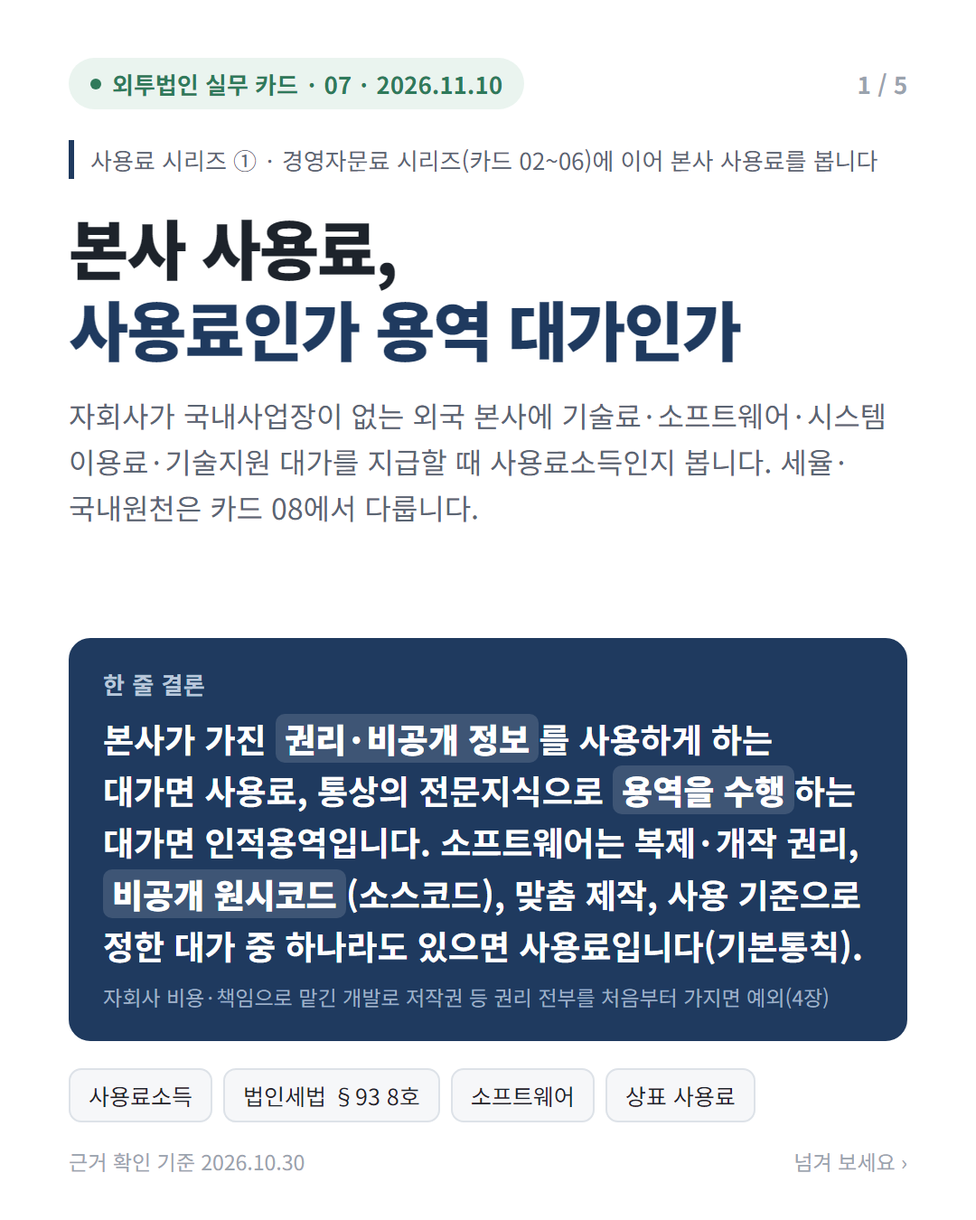
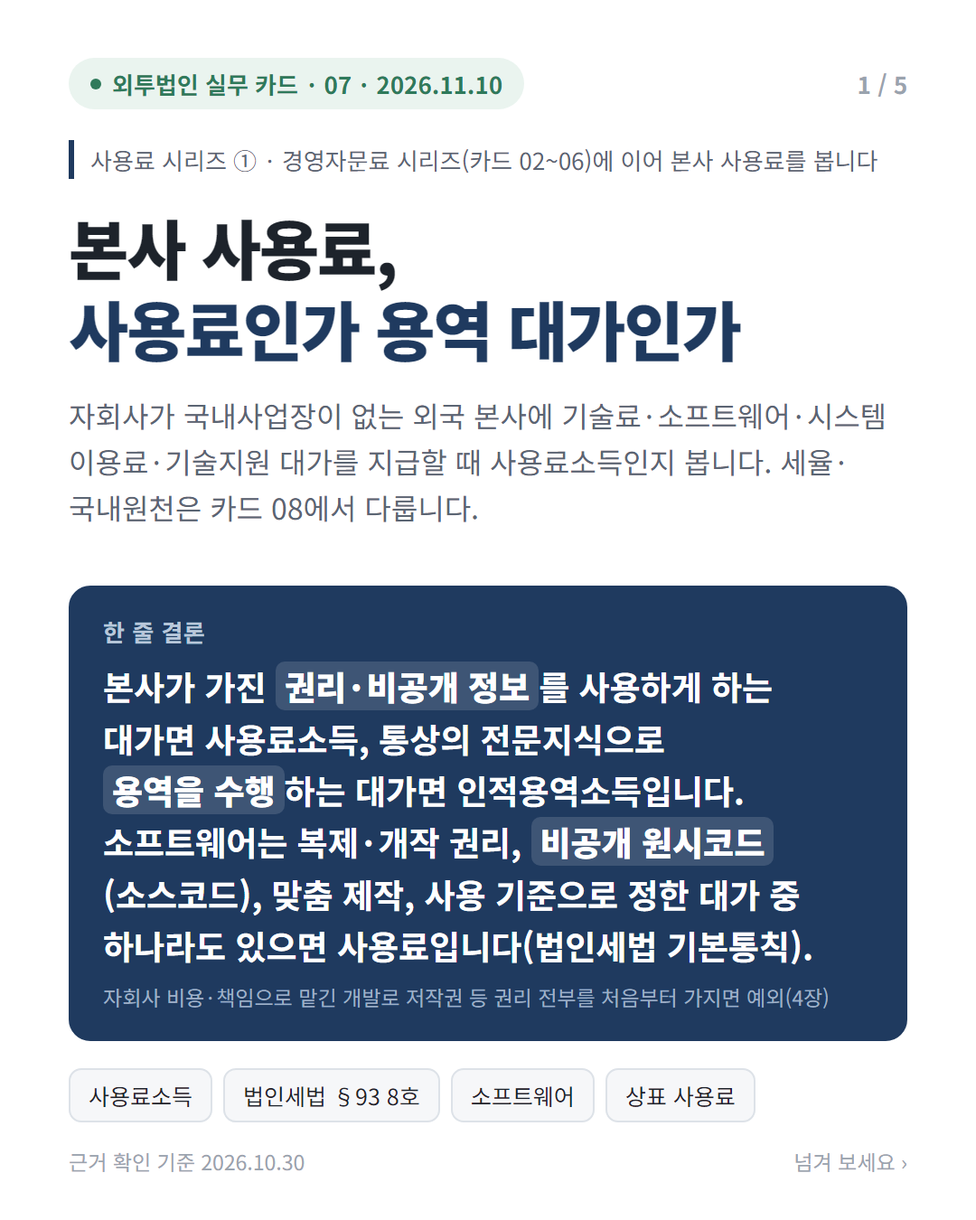
게시본 02·04~08·호외 01 용어 표기 통일(용어집 첫 판) · 점검에 개념 정리 상자 분량 따로 세기
- 표기 교체만: 인적용역→인적용역소득, 안에→이내, 과세관청→과세당국, 원천세→원천징수세액, 제한세율·지방소득세 포함 표기 등. 결론·숫자·근거 번호는 그대로
- 바뀐 장 27장만 그림이 바뀜(나머지 장 그림 그대로)
- build.py: <!--개념정리--> 구간을 합계 상한에서 빼고 200자 한도로 셈

Changed region(s): [[0.0611, 0.4667, 0.9472, 0.8089]]

diff --git a/원본/h01/카드.html b/원본/h01/카드.html
@@ -171,11 +171,11 @@
   <div class="top"><span class="badge extra">외투법인 실무 카드 · 호외 01 · 2026.10.27</span><span class="page">1 / 5</span></div>
   <p class="prev"><b>호외</b> · 장우주 님의 질의에서 시작된 이번 호, 실무 처리 기준을 정리했습니다</p>
   <h1>일본 법인 강사의 강의료,<br><em>원천징수 여부</em></h1>
-  <p class="sub">한국에 지점·사무소가 없는 일본 법인의 강사가 며칠간 강의하고, 한국 회사가 강의료를 그 법인에 지급하는 경우입니다.</p>
-  <p class="ref">이 카드가 다루지 않는 것: 대학 등 교육기관 강의(조약 제21조) · 사업자등록을 한 일본 법인 · 여러 해에 걸친 반복 초청 · 교재·프로그램 사용권 대가</p>
+  <p class="sub">국내사업장이 없는 일본 법인의 강사가 며칠간 강의하고, 한국 회사가 강의료를 그 법인에 지급하는 경우입니다.</p>
+  <p class="ref">이 카드가 다루지 않는 것: 대학 등 교육기관 강의(한일 조약 제21조) · 사업자등록을 한 일본 법인 · 여러 해에 걸친 반복 초청 · 교재·프로그램 사용권 대가</p>
   <div class="card navy answer">
     <div class="label">한 줄 결론</div>
-    <p class="big">강의료에는 <b>법인세 20%</b>와 지방소득세 2%를 원천징수합니다. 다만 일본 법인이 강의에 정기적으로 사용할 수 있는 고정시설(사무실 등)이 한국에 없고, 강사의 그해 한국 체류일이 합계 183일 미만이면 조세조약으로 면제됩니다. 지급 전에 <b class="nb">비과세·면제신청서</b>와 일본 법인의 거주자증명서를 받으면 원천징수 없이 지급합니다.</p>
+    <p class="big">강의료에는 <b>법인세 20%</b>와 지방소득세 2%를 원천징수합니다. 다만 일본 법인이 강의에 정기적으로 이용 가능한 고정시설(사무실 등)이 한국에 없고, 강사의 그해 한국 체류일이 합계 183일 미만이면 조세조약으로 면제됩니다. 지급 전에 <b class="nb">비과세·면제신청서</b>와 일본 법인의 거주자증명서를 받으면 원천징수 없이 지급합니다.</p>
   </div>
   <div class="chips">
     <span class="chip">강의료·강사료</span><span class="chip">한일 조세조약 제14조</span><span class="chip">비과세·면제신청서</span><span class="chip">183일</span>
@@ -192,13 +192,13 @@
     <div class="card navy">
       <div class="label">국내법 · 인적용역소득</div>
       <b class="t">법인세 20%</b>
-      <p>전문지식을 가진 사람이 한국에서 그 지식을 활용해 제공하는 용역의 대가입니다. 강사가 국내에서 직접 하는 강의가 여기에 해당합니다. 지방소득세는 법인세의 10%(20% × 10% = 2%)입니다. 조약상 면제가 아니면 이 세율로 원천징수합니다.</p>
+      <p>전문지식을 가진 사람이 한국에서 그 지식을 활용해 제공하는 용역에서 생기는 소득입니다. 강사가 국내에서 직접 하는 강의가 여기에 해당합니다. 지방소득세는 법인세의 10%(20% × 10% = 2%)입니다. 조약상 면제가 아니면 이 세율로 원천징수합니다.</p>
       <p class="ref">법인세법 §93 6호 · §98①4호 · 시행령 §132⑥4호 · <span class="nb">서이46017-12150</span></p>
     </div>
     <div class="card soft">
-      <div class="label">한일 조세조약 제14조</div>
+      <div class="label">한일 조약 제14조</div>
       <b class="t">둘 다 아니면 면제</b>
-      <p>① 일본 법인이 강의에 정기적으로 사용할 수 있는 고정시설(사무실 등)이 한국에 있음<br>② 강사의 그해(1월 1일~12월 31일) 체류일이 합계 183일 이상</p>
+      <p>① 일본 법인이 강의에 정기적으로 이용 가능한 고정시설(사무실 등)이 한국에 있음<br>② 강사의 그해(1.1.~12.31.) 체류일이 합계 183일 이상</p>
       <p>하나라도 해당하면 한국이 과세합니다.</p>
       <p class="ref">조약 제14조① · <span class="nb">국업46014-137</span></p>
     </div>
@@ -221,12 +221,12 @@
   <div class="rows">
     <div class="r head"><span>상황</span><span>처리</span></div>
     <div class="r"><div class="q">고정시설 없음 · 그해 체류일 183일 미만 · 지급 전에 신청서와 거주자증명서를 받음</div><div class="a no">원천징수 없음</div></div>
-    <div class="r"><div class="q">고정시설 없음 · 그해 체류일 183일 미만 · 서류를 갖추지 못함<small>원천징수해 납부합니다. 면제 요건을 갖췄다면 회사나 일본 법인이 원천징수한 달의 다음 달 11일부터 5년 안에 경정청구(납부한 세액의 환급 청구)를 할 수 있습니다.</small></div><div class="a yes"><span class="nb">법인세 20% +</span> <span class="nb">지방소득세 2%</span></div></div>
+    <div class="r"><div class="q">고정시설 없음 · 그해 체류일 183일 미만 · 서류를 갖추지 못함<small>원천징수해 납부합니다. 면제 요건을 갖췄다면 회사나 일본 법인이 원천징수한 달의 다음 달 11일부터 5년 이내에 경정청구(납부한 세액의 환급 청구)를 할 수 있습니다.</small></div><div class="a yes"><span class="nb">법인세 20% +</span> <span class="nb">지방소득세 2%</span></div></div>
     <div class="r"><div class="q">고정시설이 있거나, 그해 체류일이 합계 183일 이상<small>신청서를 받았는지와 관계없이 과세합니다.</small></div><div class="a yes"><span class="nb">법인세 20% +</span> <span class="nb">지방소득세 2%</span></div></div>
     <div class="r"><div class="q">계약·지급 상대가 강사 개인<small>조약 판단이 달라져 이 카드대로 처리할 수 없습니다.</small></div><div class="a">지급 전 세무 검토</div></div>
     <div class="r"><div class="q">강사가 일본 법인에서 받는 급여<small>한국 회사가 지급하는 소득이 아닙니다.</small></div><div class="a no"><span class="nb">한국 회사는</span> <span class="nb">원천징수 없음</span></div></div>
   </div>
-  <div class="stop"><b>같은 해에 다시 초청할 때</b> 그해 체류일이 합계 183일 이상이 되면, 앞서 원천징수 없이 지급한 강의료도 과세되어 회사에 그 세액과 납부지연가산세가 추징될 수 있습니다. 재초청 전에 일본 법인에 강사의 그해 체류일 합계를 확인합니다. <span class="ref"><span class="nb">조약 제14조①</span> · 법인세법 §98의4④·§98④</span></div>
+  <div class="stop"><b>같은 해에 다시 초청할 때</b> 그해 체류일이 합계 183일 이상이 되면, 앞서 원천징수 없이 지급한 강의료도 과세되어 회사에 그 세액과 원천징수 등 납부지연가산세가 추징될 수 있습니다. 재초청 전에 일본 법인에 강사의 그해 체류일 합계를 확인합니다. <span class="ref"><span class="nb">조약 제14조①</span> · 법인세법 §98의4④·§98④</span></div>
   <footer><span>근거: 법인세법 §98의4 · 조약 제15조② · 소득세법 §156①</span><span>›</span></footer>
 </section>
 
@@ -235,10 +235,10 @@
   <div class="top"><span class="badge extra">외투법인 실무 카드 · 호외 01 · 2026.10.27</span><span class="page">4 / 5</span></div>
   <h2><span class="no">3</span>지급 전후 할 일</h2>
   <ul class="checks">
-    <li><span><b>지급 전</b> · 일본 법인에 강사의 그해 체류일 합계를 묻고, 강의에 정기적으로 사용할 수 있는 고정시설이 한국에 있는지 확인합니다. 183일 미만이고 고정시설이 없으면 비과세·면제신청서와 그 법인의 일본 거주자증명서를 받습니다.<small>조약 제14조① · 법인세법 §98의4① · 시행령 §138의4①</small></span></li>
-    <li><span><b>지급한 달의 다음 달 9일까지</b> · 신청서와 거주자증명서를 회사 관할 세무서에 제출합니다. 제출한 날부터 3년 안에는 같은 법인에게서 다시 받지 않아도 됩니다. 내용이 바뀌면 다시 받아 제출합니다.<small>법인세법 시행령 §138의4①②⑫</small></span></li>
-    <li><span><b>지급한 달의 다음 달 10일까지</b> · 원천징수했다면 원천징수이행상황신고서를 제출하고, 법인세는 세무서에, 지방소득세는 관할 시·군·구에 납부합니다. 다른 소득을 원천징수해 신고서를 제출하는 달에는 이 강의료도 함께 적습니다. 다만, 원천징수이행상황신고는 과세표준 신고가 아니어서 무신고가산세가 없고, 면제 요건을 갖춘 경우 납부할 세액이 0원이라 납부지연가산세도 없기 때문에 신고의 실익은 없습니다.<small>법인세법 §98① · 시행령 §137③ · 소득세법 시행령 §185 · 지방세법 §103의29④ · 국세기본법 §47의2① · §47의5① · 지방세기본법 §56①</small></span></li>
-    <li><span><b>다음 해 2월 말일까지</b> · 원천징수했다면 지급명세서를 제출합니다. 제출하지 않으면 지급액의 1%(기한 후 3개월 안에 제출하면 0.5%)가 가산세입니다. 신청서를 받은 강의료는 제출 대상이 아닙니다.<small>법인세법 §120의2① · §75의7① · 시행령 §162의2①6호</small></span></li>
+    <li><span><b>지급 전</b> · 일본 법인에 강사의 그해 체류일 합계를 묻고, 강의에 정기적으로 이용 가능한 고정시설이 한국에 있는지 확인합니다. 183일 미만이고 고정시설이 없으면 비과세·면제신청서와 그 법인의 일본 거주자증명서를 받습니다.<small>조약 제14조① · 법인세법 §98의4① · 시행령 §138의4①</small></span></li>
+    <li><span><b>지급한 달의 다음 달 9일까지</b> · 신청서와 거주자증명서를 회사 관할 세무서에 제출합니다. 제출한 날부터 3년 이내에는 같은 법인에게서 다시 받지 않아도 됩니다. 내용이 바뀌면 다시 받아 제출합니다.<small>법인세법 시행령 §138의4①②⑫</small></span></li>
+    <li><span><b>지급한 달의 다음 달 10일까지</b> · 원천징수했다면 원천징수이행상황신고서를 제출하고, 법인세는 세무서에, 지방소득세는 지방자치단체에 납부합니다. 다른 소득을 원천징수해 신고서를 제출하는 달에는 이 강의료도 함께 적습니다. 다만, 원천징수이행상황신고는 과세표준 신고가 아니어서 무신고가산세가 없고, 면제 요건을 갖춘 경우 납부할 세액이 0원이라 원천징수 등 납부지연가산세도 없기 때문에 신고의 실익은 없습니다.<small>법인세법 §98① · 시행령 §137③ · 소득세법 시행령 §185 · 지방세법 §103의29④ · 국세기본법 §47의2① · §47의5① · 지방세기본법 §56①</small></span></li>
+    <li><span><b>다음 해 2월 말일까지</b> · 원천징수했다면 지급명세서를 제출합니다. 제출하지 않으면 지급액의 1%(기한 후 3개월 이내에 제출하면 0.5%)가 가산세입니다. 신청서를 받은 강의료는 제출 대상이 아닙니다.<small>법인세법 §120의2① · §75의7① · 시행령 §162의2①6호</small></span></li>
   </ul>
   <footer><span>근거: 법인세법 §98의4·§120의2 · 시행령 §137·§138의4·§162의2</span><span>›</span></footer>
 </section>
@@ -252,8 +252,8 @@
     <div class="good">강사가 국내에서 직접 하는 강의는 인적용역소득(법인세 20%)입니다. 사업소득(법인세 2%)은 기계설비 수입 대금에 포함된 설치·감독 용역 등입니다.<small>법인세법 §93 · <span class="nb">기본통칙 93-132…9</span></small></div>
   </div>
   <div class="fix">
-    <div class="bad">소액(예: 200만원)이라 서류 없이 지급</div>
-    <div class="good">금액과 관계없이 신청서가 없으면 법인세 40만원(200만원 × 20%)과 지방소득세 4만원(40만원 × 10%)을 원천징수합니다.<small>법인세법 §98의4③ · 지방세법 §103의52①</small></div>
+    <div class="bad">소액(예: 200만 원)이라 서류 없이 지급</div>
+    <div class="good">금액과 관계없이 신청서가 없으면 법인세 40만 원(200만 원 × 20%)과 지방소득세 4만 원(40만 원 × 10%)을 원천징수합니다.<small>법인세법 §98의4③ · 지방세법 §103의52①</small></div>
   </div>
   <div class="fix last">
     <div class="bad">항공료·숙박비까지 강의료에 포함해 원천징수</div>

diff --git a/원본/08/카드.html b/원본/08/카드.html
@@ -182,7 +182,7 @@
   <p class="sub">한국 자회사가 국내사업장이 없는 외국 본사에 상표·특허·노하우·소프트웨어 사용료를 지급하는 경우입니다. 특허권 양도 대가는 다루지 않습니다.</p>
   <div class="card navy answer">
     <div class="label">한 줄 결론</div>
-    <p class="big">한국 자회사가 지급하는 사용료는 <b class="nb">국내원천</b>으로 보는 것이 원칙입니다. 본사의 <b class="nb">제한세율 적용신청서</b>를 받으면 조약 세율로, 받지 못하면 <b class="nb">20%</b>에 지방소득세를 더해 원천징수합니다.</p>
+    <p class="big">한국 자회사가 지급하는 사용료는 <b class="nb">국내원천</b>으로 보는 것이 원칙입니다. 본사의 <b class="nb">제한세율 적용신청서</b>를 받으면 제한세율로, 받지 못하면 <b class="nb">20%</b>에 지방소득세를 더해 원천징수합니다.</p>
   </div>
   <div class="chips">
     <span class="chip">사용료 원천징수</span><span class="chip">법인세법 §93 8호</span><span class="chip">제한세율 적용신청서</span><span class="chip">한일 조약 제12조</span><span class="chip">한미 조약</span><span class="chip">국내 미등록 특허</span><span class="chip">수익적 소유자</span>
@@ -194,7 +194,7 @@
 <section class="slide" id="s2">
   <div class="top"><span class="badge">외투법인 실무 카드 · 08 · 2026.11.13</span><span class="page">2 / 5</span></div>
   <h2><span class="no">1</span>국내원천인가</h2>
-  <p class="lead">법인세법은 권리 등을 <b>국내에서 사용하거나 그 대가를 국내에서 지급하면</b> 국내원천 사용료로 봅니다. 조약이 원천지를 따로 정하면 조약 기준을 따릅니다.<span class="ref nb"> §93 8호</span></p>
+  <p class="lead">법인세법은 권리 등을 <b>국내에서 사용하거나 그 대가를 국내에서 지급하면</b> 국내원천 사용료소득으로 봅니다. 조약이 원천지를 따로 정하면 조약 기준을 따릅니다.<span class="ref nb"> §93 8호</span></p>
   <div class="two">
     <div class="card navy">
       <div class="label">지급인 거주지 기준</div>
@@ -205,14 +205,14 @@
     <div class="card soft">
       <div class="label">사용지 기준</div>
       <b class="t">미국</b>
-      <p>국내에서 사용한 권리의 대가만 국내원천입니다. 국내에 등록하지 않은 특허도 그 기술을 국내 제조 등에 실제로 사용했으면 국내원천입니다(2020년 이후 지급분은 현행 규정, 그 전은 옛 규정·2025년 판례).</p>
+      <p>국내에서 사용한 권리의 대가만 국내원천입니다. 국내에 등록하지 않은 특허도 그 기술을 국내 제조 등에 실제로 사용했으면 국내원천입니다(2020년 이후 지급분은 현행 규정, 그 전은 옛 조문·2025년 판례).</p>
       <p class="ref">§93 8호 다목 · 한미 조약 제6조③ · 대법원 2021두59908 전원합의체(옛 조문 사안)</p>
     </div>
   </div>
   <div class="card soft split">
     <div class="label">판단이 갈린 적 있음<span class="tag-split">국내 미등록 특허</span></div>
     <p>대법원은 2025년 전원합의체에서 판례를 바꿨습니다(대법관 3명 반대). 국내·국외 사용분을 어떻게 나누고 누가 증명하는지는 정리되지 않았으며, 외국법인 쪽이 증명해야 한다고 본 심판례가 있습니다. 사용 장소별 자료를 남깁니다. 지급인 거주지 기준 조약에는 이 쟁점이 생기지 않습니다.</p>
-    <small>대법원 2021두59908(다수의견은 증명 책임을 판단하지 않음 · 다수 보충의견은 납세자, 반대의견 보충의견은 과세관청 쪽) · 조심2025중2984</small>
+    <small>대법원 2021두59908(다수의견은 증명 책임을 판단하지 않음 · 다수 보충의견은 납세자, 반대의견 보충의견은 과세당국 쪽) · 조심2025중2984</small>
   </div>
   <footer><span>근거: 법인세법 §93 8호 · 각 조약 제12조</span><span>›</span></footer>
 </section>
@@ -231,7 +231,7 @@
     <div class="r"><div class="q">싱가포르<small>2020.1.1. 이후 지급분</small></div><div class="v">5%</div><div class="v">포함</div><div class="v total"><span class="nb">261만 2,500</span></div></div>
     <div class="r"><div class="q">신청서를 받지 못함</div><div class="v">20%</div><div class="v">별도</div><div class="v total"><span class="nb">1,149만 5천</span><small><span class="nb">1,045만</span> + <span class="nb">104만 5천</span></small></div></div>
   </div>
-  <footer><span>근거: 각 조약 제2·12조(미국 제1·14조) · 한싱(2019) §27② · <span class="nb">법령해석과-1763</span></span><span>›</span></footer>
+  <footer><span>근거: 각 조약 제2·12조(미국 제1·14조) · 한싱 조약(2019) 제27조② · <span class="nb">법령해석과-1763</span></span><span>›</span></footer>
 </section>
 
 <!-- 4. 신청서와 납부 -->
@@ -239,14 +239,14 @@
   <div class="top"><span class="badge">외투법인 실무 카드 · 08 · 2026.11.13</span><span class="page">4 / 5</span></div>
   <h2><span class="no">3</span>신청서와 납부</h2>
   <div class="flow">
-    <div class="step key"><div class="n">지급 전</div><h3>제한세율 적용신청서 받기</h3><p>본사는 지급받기 전까지 신청서와 그 소득의 실질귀속자(그 소득을 실질적으로 보유한 자)임을 증명하는 서류를 자회사에 제출해야 합니다. 서류로 실질귀속자를 알 수 없거나 자회사의 보완 요구에 따르지 않으면 20%입니다. 제출한 날부터 3년 안에는 다시 받지 않아도 되나, 내용이 바뀌면 그 뒤 첫 지급 전까지 다시 받습니다.</p></div>
+    <div class="step key"><div class="n">지급 전</div><h3>제한세율 적용신청서 받기</h3><p>본사는 지급받기 전까지 신청서와 그 소득의 실질귀속자(그 소득을 실질적으로 보유한 자)임을 증명하는 서류를 자회사에 제출해야 합니다. 서류로 실질귀속자를 알 수 없거나 자회사의 보완 요구에 따르지 않으면 20%입니다. 제출한 날부터 3년 이내에는 다시 받지 않아도 되나, 내용이 바뀌면 그 뒤 첫 지급 전까지 다시 받습니다.</p></div>
     <div class="arr">↓</div>
     <div class="step"><div class="n">지급할 때</div><h3>원천징수·납부</h3><p>다음 달 10일까지 법인세는 세무서에, 지방소득세는 지방자치단체에 납부합니다. 외화 환산은 카드 05를 따릅니다.</p></div>
     <div class="arr">↓</div>
     <div class="step"><div class="n">다음 해</div><h3>신청서 보관·제출</h3><p>신청서는 원천징수세액 납부기한 다음 날부터 5년간 보관하고, 2026.1.1. 이후 신청분은 지급한 다음 해 2월 말일까지 관할 세무서에 제출합니다(2026년 지급분은 2027.3.2.(화), 카드 06).</p></div>
   </div>
-  <div class="stop"><b>신청서 없이 제한세율을 적용하면</b> 자회사가 과소 원천징수한 법인세와 지방소득세를 징수당할 수 있습니다. 이 회사라면 법인세 570만 원(1,045만 − 475만)과 지방소득세 57만 원(104만 5천 − 47만 5천)에 원천징수 등 납부지연가산세(국세기본법 §47의5)와 특별징수 납부지연가산세(지방세기본법 §56)가 더해집니다. 신청서 없이 20%였다면 카드 02·호외 01에서 본 대로 본사·자회사가 5년 안에 경정청구할 수 있습니다. <span class="ref">§98④ · §98의6③⑤ · 지방세법 §103의52②</span></div>
-  <footer><span>근거: §93의2① · §98의6 · 시행령 §138의7 · 부칙(제21217호) §13</span><span>›</span></footer>
+  <div class="stop"><b>신청서 없이 제한세율을 적용하면</b> 자회사가 과소 원천징수한 법인세와 지방소득세를 징수당할 수 있습니다. 이 회사라면 법인세 570만 원(1,045만 − 475만)과 지방소득세 57만 원(104만 5천 − 47만 5천)에 원천징수 등 납부지연가산세(국세기본법 §47의5)와 특별징수 납부지연가산세(지방세기본법 §56)가 더해집니다. 신청서 없이 20%였다면 카드 02·호외 01에서 본 대로 본사·자회사가 5년 이내에 경정청구할 수 있습니다. <span class="ref">§98④ · §98의6③⑤ · 지방세법 §103의52②</span></div>
+  <footer><span>근거: §93의2① · §98의6 · 시행령 §138의7 · 법률 제21217호 부칙 §13</span><span>›</span></footer>
 </section>
 
 <!-- 5. 흔한 실수 -->
@@ -263,7 +263,7 @@
   </div>
   <div class="fix last">
     <div class="bad">본사는 받은 사용료를 다른 나라 계열사에 그대로 넘기는 도관(거쳐 가기만 하는 회사)인데 한일 조약 10% 적용</div>
-    <div class="good">한일 조약 10%는 수익적 소유자(다시 넘길 의무 없이 사용하는 자)가 일본 거주자일 때만 적용됩니다. 신청서를 받을 때 실제 소유자를 확인합니다<small>한일 조약 제12조② · §98의6① · 대법원 2017두33008</small></div>
+    <div class="good">한일 조약 10%는 수익적 소유자(다시 넘길 의무 없이 사용하는 자)가 일본 거주자일 때만 적용됩니다. 신청서를 받을 때 수익적 소유자를 확인합니다<small>한일 조약 제12조② · §98의6① · 대법원 2017두33008</small></div>
   </div>
   <div class="basis">
     <div class="label">근거</div>

diff --git a/원본/02/카드.html b/원본/02/카드.html
@@ -172,7 +172,7 @@
   <p class="sub">한국 자회사가 국내사업장이 없는 외국 본사에 경영자문료를 지급하는 경우입니다. 조세조약은 일본 본사를 예로 듭니다.</p>
   <div class="card navy answer">
     <div class="label">한 줄 결론</div>
-    <p class="big">먼저 <b>무엇을 넘겨받았는지</b>로 소득을 구분합니다. 경영 노하우·경험 정보면 <b>사용료</b>로 원천징수하고, 자문 용역(인적용역)이면 <b>수행 장소</b>와 <b>조약 요건</b>으로 원천징수 여부를 정합니다.</p>
+    <p class="big">먼저 <b>무엇을 넘겨받았는지</b>로 소득을 구분합니다. 경영 노하우·경험 정보면 <b>사용료</b>로 원천징수하고, 자문 용역(인적용역소득)이면 <b>수행 장소</b>와 <b>조약 요건</b>으로 원천징수 여부를 정합니다.</p>
   </div>
   <div class="chips">
     <span class="chip">경영자문료</span><span class="chip">사용료·인적용역 구분</span><span class="chip">법인세법 §93 6호·8호</span><span class="chip">한일 조세조약 제12조·제14조</span><span class="chip">제한세율 적용신청서</span><span class="chip">비과세·면제신청서</span><span class="chip">183일</span>
@@ -187,13 +187,13 @@
   <p class="lead">같은 「경영자문료」라도 내용에 따라 소득과 원천징수 여부가 갈립니다.</p>
   <div class="two">
     <div class="card navy">
-      <div class="label">사용료</div>
+      <div class="label">사용료소득</div>
       <b class="t">경험 정보·노하우</b>
-      <p>본사가 이미 축적한 경영상 지식·경험에 관한 정보를 넘겨받는 대가입니다. <b>수행 장소와 관계없이</b> 원천징수합니다. 한일 조약상 상한은 <b>지방소득세를 포함해 10%</b>이고, 본사에서 <b>제한세율 적용신청서</b>를 받아야 적용합니다(받지 못하면 20%).</p>
-      <p class="ref">법인세법 §93 8호 나목 · §98의6 · 한일 조약 제2조·제12조 · <span class="nb">국제세원관리담당관실-375(2012.8.22.)</span></p>
+      <p>본사가 이미 축적한 경영상 지식·경험에 관한 정보를 넘겨받는 대가입니다. <b>수행 장소와 관계없이</b> 원천징수합니다. 한일 조약 제한세율은 <b>10%(지방소득세 포함)</b>이고, 본사에서 <b>제한세율 적용신청서</b>를 받아야 적용합니다(받지 못하면 20%).</p>
+      <p class="ref">법인세법 §93 8호 나목 · §98의6 · 한일 조약 제2·12조 · <span class="nb">국제세원관리담당관실-375(2012.8.22.)</span></p>
     </div>
     <div class="card soft">
-      <div class="label">인적용역</div>
+      <div class="label">인적용역소득</div>
       <b class="t">전문지식 활용 용역</b>
       <p>같은 종류의 용역수행자가 통상 보유하는 전문지식·기능으로 수행하는 자문 용역입니다. 국내에서 제공한 부분만 국내원천소득입니다.</p>
       <p class="ref">법인세법 §93 6호 · 시행령 §132⑥4호</p>
@@ -202,11 +202,11 @@
   <div class="card bottom" style="padding:24px 32px">
     <div class="label">가를 때 보는 요소</div>
     <ul class="ul">
-      <li>노하우를 비밀로 보호하거나 제3자 공개를 막는 특별한 장치가 있다(통상의 쌍방 비밀유지 조항은 제외) → <b class="nb">사용료 쪽</b></li>
-      <li>대가가 본사가 그 용역에 실제로 들인 비용(인건비 등)에 보통 수준의 이윤을 붙인 금액보다 훨씬 크다 → <b class="nb">사용료 쪽</b></li>
-      <li>본사가 용역의 이행과 결과를 보증한다 → <b class="nb">인적용역 쪽</b></li>
+      <li>노하우를 비밀로 보호하거나 제3자 공개를 막는 특별한 장치가 있다(통상의 쌍방 비밀유지 조항은 제외) → <b class="nb">사용료소득 쪽</b></li>
+      <li>대가가 본사가 그 용역에 실제로 들인 비용(인건비 등)에 보통 수준의 이윤을 붙인 금액보다 훨씬 크다 → <b class="nb">사용료소득 쪽</b></li>
+      <li>본사가 용역의 이행과 결과를 보증한다 → <b class="nb">인적용역소득 쪽</b></li>
     </ul>
-    <p class="ref">법인세법 기본통칙 93-132…7③ · 대법원 2015두950 · 일본법인 컨설팅에 같은 구분 기준을 제시한 회신 <span class="nb">국제세원관리담당관실-447(2010.10.13.)</span></p>
+    <p class="ref">법인세법 기본통칙 93-132…7③ · 대법원 2015두950 · 일본 법인 컨설팅에 같은 구분 기준을 제시한 회신 <span class="nb">국제세원관리담당관실-447(2010.10.13.)</span></p>
   </div>
   <footer><span>근거: 법인세법 §93 · 기본통칙 93-132…7</span><span>›</span></footer>
 </section>
@@ -222,7 +222,7 @@
     <div class="arr">↓</div>
     <div class="step"><div class="n">3단계</div><h3>조약 요건</h3><p>한국에 정기적으로 이용 가능한 <b>고정시설</b>이 있거나 그해(1.1.~12.31.) 본사 직원의 국내 체류가 <b>183일 이상</b>이면 과세, 아니면 과세하지 않습니다(한일 조약 제14조① · 국세청 회신 기준)</p></div>
     <div class="arr">↓</div>
-    <div class="step key"><div class="n">4단계</div><h3>신청서 또는 원천징수</h3><p>조약상 면제여도 <b>2026.1.1. 이후 발생분</b>은 <b>지급 전에</b> 비과세·면제신청서와 거주자증명서를 받아 두고 지급한 달의 다음 달 9일까지 세무서에 제출합니다. 받지 못했거나 과세되면 <b>20%</b>와 지방소득세(그 세액의 10%)를 원천징수해 다음 달 10일까지 납부합니다(한일 조약은 인적용역 세율 상한을 두지 않아 국내법 세율을 그대로 적용).</p></div>
+    <div class="step key"><div class="n">4단계</div><h3>신청서 또는 원천징수</h3><p>조약상 면제여도 <b>2026.1.1. 이후 발생분</b>은 <b>지급 전에</b> 비과세·면제신청서와 거주자증명서를 받아 두고 지급한 달의 다음 달 9일까지 세무서에 제출합니다. 받지 못했거나 과세되면 <b>20%</b>와 지방소득세(그 세액의 10%)를 원천징수해 다음 달 10일까지 납부합니다(한일 조약은 인적용역소득에 제한세율을 두지 않아 국내법 세율을 그대로 적용).</p></div>
   </div>
   <footer><span>근거: 법인세법 §98① · §98의4 · §98의6 · 시행령 §138의4 · 지방세법 §103의52 · <span class="nb">서면-2026-국제세원-2130</span> · <span class="nb">서이46017-12150</span> · <span class="nb">국업46014-137</span></span><span>›</span></footer>
 </section>
@@ -235,7 +235,7 @@
     <li><span>조약 문언은 「총 183일 또는 이를 초과하는 기간」이므로 <b>183일이면</b> 과세 요건에 해당합니다. 과세 범위는 그 체류 기간에 국내에서 얻은 소득입니다.<small>서로 관련된 별개 계약은 하나로 보고 기간을 셉니다 · <span class="nb">서이46017-12150</span></small></span></li>
     <li><span>자회사가 항공회사·숙박업자·음식업자에게 실제 지급한 사실이 확인되는 <b>항공료·숙박비·식사대</b>는 원천징수 대상 금액에서 제외합니다(본사를 통해 지급한 경우 포함).<small>법인세법 §93 6호 후단 · 시행령 §132⑦ — 인적용역소득에만 적용</small></span></li>
     <li><span>국내·국외 수행이 섞이면 <b>국내 제공분만</b> 국내원천소득입니다. 계약에서 국내 방문분 대가를 구분해 둡니다.<small>법인 용역의 안분 기준을 정한 조문·해석은 확인되지 않아 개별 검토 · <span class="nb">서이46017-10099</span></small></span></li>
-    <li><span>본사가 일본이 아니면 그 나라 조약으로 다시 봅니다. 한미 조약은 법인의 자문 용역을 <b>사업소득</b>으로 보아 고정사업장 여부로 판단합니다.<small>한미 조약 제8조 · <span class="nb">서면-2016-국제세원-2908</span> · 국외 제공 용역을 국내 발생으로 보는 조약(예: 한·인도)이면 3%(§98①4호 단서)</small></span></li>
+    <li><span>본사가 일본이 아니면 그 나라 조약으로 다시 봅니다. 한미 조약은 법인의 자문 용역을 <b>사업소득</b>으로 보아 고정사업장 여부로 판단합니다.<small>한미 조약 제8조 · <span class="nb">서면-2016-국제세원-2908</span> · 국외 제공 용역을 국내 발생으로 보는 조약(예: 한인도 조약)이면 3%(§98①4호 단서)</small></span></li>
   </ul>
   <div class="card soft split">
     <div class="label">판단이 갈린 적 있음<span class="tag-split">매출액 비율 분담금</span></div>
@@ -255,7 +255,7 @@
   </div>
   <div class="fix">
     <div class="bad">조약상 면제라서 2026년 이후에도 서류 없이 지급</div>
-    <div class="good">신청서가 없으면 20%로 원천징수하고, 본사 또는 자회사가 5년 안에 경정청구할 수 있습니다<small>법인세법 §98의4③⑤ · 부칙 §10</small></div>
+    <div class="good">신청서가 없으면 20%로 원천징수하고, 본사 또는 자회사가 5년 이내에 경정청구할 수 있습니다<small>법인세법 §98의4③⑤ · 부칙 §10</small></div>
   </div>
   <div class="fix last">
     <div class="bad">과세되는 인적용역에 한일 조약 제한세율 10% 적용</div>

diff --git a/원본/07/카드.html b/원본/07/카드.html
@@ -182,7 +182,7 @@
   <p class="sub">자회사가 국내사업장이 없는 외국 본사에 기술료·소프트웨어·시스템 이용료·기술지원 대가를 지급할 때 사용료소득인지 봅니다. 세율·국내원천은 카드 08에서 다룹니다.</p>
   <div class="card navy answer">
     <div class="label">한 줄 결론</div>
-    <p class="big">본사가 가진 <b class="nb">권리·비공개 정보</b>를 사용하게 하는 대가면 사용료, 통상의 전문지식으로 <b class="nb">용역을 수행</b>하는 대가면 인적용역입니다. 소프트웨어는 복제·개작 권리, <b class="nb">비공개 원시코드</b>(소스코드), 맞춤 제작, 사용 기준으로 정한 대가 중 하나라도 있으면 사용료입니다(기본통칙).</p>
+    <p class="big">본사가 가진 <b class="nb">권리·비공개 정보</b>를 사용하게 하는 대가면 사용료소득, 통상의 전문지식으로 <b class="nb">용역을 수행</b>하는 대가면 인적용역소득입니다. 소프트웨어는 복제·개작 권리, <b class="nb">비공개 원시코드</b>(소스코드), 맞춤 제작, 사용 기준으로 정한 대가 중 하나라도 있으면 사용료입니다(법인세법 기본통칙).</p>
     <p class="ref">자회사 비용·책임으로 맡긴 개발로 저작권 등 권리 전부를 처음부터 가지면 예외(4장)</p>
   </div>
   <div class="chips">
@@ -199,12 +199,12 @@
     <div class="card navy">
       <div class="label">사용료</div>
       <b class="t">권리·노하우</b>
-      <p>저작권·특허권·상표권·도면 등의 사용 대가와 <span class="nb">산업상·상업상·과학상</span> 지식·경험에 관한 정보(노하우)의 대가입니다. 노하우는 제공 전에 이미 있는 비공개 기술정보입니다.</p>
+      <p>저작권·특허권·상표권·도면 등의 사용 대가와 <span class="nb">산업상·상업상·과학상</span> 지식·경험에 관한 정보 또는 노하우의 대가입니다. 노하우는 제공 전에 이미 있는 비공개 기술정보입니다.</p>
       <p class="ref">법인세법 §93 8호 가·나목 · 기본통칙 93-132…7①</p>
     </div>
     <div class="card soft">
       <div class="label">인적용역 · 사업소득</div>
-      <b class="t">용역 수행의 대가</b>
+      <b class="t">용역 대가</b>
       <p>동종 용역수행자가 통상 가진 <span class="nb">전문지식·기능으로</span> 하는 기술지원은 인적용역입니다. 설비에 필수로 따르는 설치·감독·애프터서비스 대가가 설비 가격에 포함되면 사업소득입니다.</p>
       <p class="ref">§93 5호·6호 · <span class="nb">기본통칙 93-132…7②</span> · <span class="nb">93-132…9</span></p>
     </div>
@@ -227,10 +227,10 @@
   <p class="lead">예: 카드 05의 한국 자회사가 일본 본사에 지급하는 다섯 가지 대가. 오른쪽은 <b>이 회사라면</b>, 작은 글씨는 <b>근거 회신·판결의 사안</b>입니다.</p>
   <div class="rows">
     <div class="head">이 회사가 지급하는 대가</div>
-    <div class="r"><div class="q">㉠ 상표 사용료(매출 연동)와 ㉡ 그 상표 사용계약에 따른 광고비<small>§93 8호 가목 · 사안: 프랑스 법인 상표 계약의 연합광고비(<span class="nb">국제세원관리담당관실-573</span>, 옛 조문 사안), 이탈리아 법인 상표 계약의 자회사 영업이익률 정산금(대법원 2026두30813)</small></div><div class="a yes">사용료<small>㉡은 회신에 따름</small></div></div>
-    <div class="r"><div class="q">㉢ 자회사에 맞게 개작한 생산관리 시스템의 사용권<small>기본통칙 93-132…8②2나 · 사안: 국내 항공사가 모리셔스 업체 시스템을 도입자 사정에 맞게 개발·수정해 들여온 사용권(저작권 사용 허락, §93 8호 가목 · <span class="nb">사전-2022-법규국조-1073</span>)</small></div><div class="a yes">사용료</div></div>
+    <div class="r"><div class="q">㉠ 상표 사용료(매출 연동)와 ㉡ 그 상표 사용계약에 따른 광고비<small>§93 8호 가목 · 사안: 프랑스 법인 상표 계약의 연합광고비(<span class="nb">국제세원관리담당관실-573</span>, 옛 조문 사안), 이탈리아 법인 상표 계약의 자회사 영업이익률 정산금(대법원 2026두30813)</small></div><div class="a yes">사용료소득<small>㉡은 회신에 따름</small></div></div>
+    <div class="r"><div class="q">㉢ 자회사에 맞게 개작한 생산관리 시스템의 사용권<small>기본통칙 93-132…8②2나 · 사안: 국내 항공사가 모리셔스 업체 시스템을 도입자 사정에 맞게 개발·수정해 들여온 사용권(저작권 사용 허락, §93 8호 가목 · <span class="nb">사전-2022-법규국조-1073</span>)</small></div><div class="a yes">사용료소득</div></div>
     <div class="r"><div class="q">㉣ 범용 상용 소프트웨어를 기술교육·개작 없이 구입(원시코드·사용 기준 과금 없음)<small>사안: 일본 업체(본사 아님)의 지도 소프트웨어를 수출 제품에 탑재한 옛 조문 사안 · <span class="nb">국제세원관리담당관실-69</span>(2010.2.5.)</small></div><div class="a calc">사업소득<small>2장</small></div></div>
-    <div class="r"><div class="q">㉤ 본사 엔지니어의 통상적인 기술지원<small>기본통칙 93-132…7② · 사안: 스웨덴 업체가 별도 계약으로 한 국내 설치 기술지원(<span class="nb">사전-2026-법규국조-0329</span>)</small></div><div class="a calc">인적용역<small>카드 02</small></div></div>
+    <div class="r"><div class="q">㉤ 본사 엔지니어의 통상적인 기술지원<small>기본통칙 93-132…7② · 사안: 스웨덴 업체가 별도 계약으로 한 국내 설치 기술지원(<span class="nb">사전-2026-법규국조-0329</span>)</small></div><div class="a calc">인적용역소득<small>카드 02</small></div></div>
   </div>
   <footer><span>회신·판결은 각 사안의 사실관계(나라·계약)에 따른 것입니다. 이 회사도 계약 내용을 확인합니다</span><span>›</span></footer>
 </section>

diff --git a/원본/06/카드.html b/원본/06/카드.html
@@ -182,7 +182,7 @@
   <p class="sub">한국 자회사가 국내사업장이 없는 외국 본사에 경영자문료를 지급했을 때 제출 여부와 기한을 봅니다. 국제거래명세서는 3막(연말 결산과 신고)에서 다룹니다.</p>
   <div class="card navy answer">
     <div class="label">한 줄 결론</div>
-    <p class="big">지급한 다음 해 <b class="nb">2월 말일</b>까지 제출합니다. 2026.1.1. 이후 발생분은 <b class="nb">원천징수를 하지 않았어도</b> 제출합니다. <b class="nb">비과세·면제신청서</b>를 세무서에 제출한 소득과 국외에서만 수행한 자문 용역(인적용역) 대가는 제외됩니다.</p>
+    <p class="big">지급한 다음 해 <b class="nb">2월 말일</b>까지 제출합니다. 2026.1.1. 이후 발생분은 <b class="nb">원천징수를 하지 않았어도</b> 제출합니다. <b class="nb">비과세·면제신청서</b>를 세무서에 제출한 소득과 국외에서만 수행한 자문 용역(인적용역소득) 대가는 제외됩니다.</p>
   </div>
   <div class="chips">
     <span class="chip">법인세법 §120의2</span><span class="chip">비과세·면제신청서</span><span class="chip">인적용역소득</span>
@@ -217,7 +217,7 @@
   </ul>
   <div class="card soft" style="padding:24px 30px; margin-top:14px">
     <div class="label">신청서로 면제된 소득</div>
-    <p class="note" style="margin-top:10px">호외 01에서 본 것처럼 다른 소득을 원천징수해 신고서를 제출하는 달에는 함께 적지만, 무신고가산세·납부지연가산세가 없어 신고의 실익은 없습니다.</p>
+    <p class="note" style="margin-top:10px">호외 01에서 본 것처럼 다른 소득을 원천징수해 신고서를 제출하는 달에는 함께 적지만, 무신고가산세·원천징수 등 납부지연가산세가 없어 신고의 실익은 없습니다.</p>
     <div class="ref">소득세법 시행령 §185②&nbsp;· 국세기본법 §47의2①</div>
   </div>
   <footer style="margin-top:auto"><span></span><span>›</span></footer>
@@ -246,12 +246,12 @@
   <div class="top"><span class="badge">외투법인 실무 카드 · 06 · 2026.11.06</span><span class="page">5 / 6</span></div>
   <h2><span class="no">4</span>가산세와 꼭 확인할 것</h2>
   <div class="rows">
-    <div class="head">지급명세서 가산세 · 법인세법 §75의7</div>
+    <div class="head">지급명세서 등 제출 불성실 가산세 · 법인세법 §75의7</div>
     <div class="r"><div class="q">기한까지 제출하지 않음</div><div class="a calc">지급금액의 1%</div></div>
     <div class="r"><div class="q">기한이 지난 후 3개월 이내에 제출</div><div class="a calc">지급금액의 0.5%</div></div>
     <div class="r"><div class="q">불분명하거나 지급금액이 사실과 다름</div><div class="a calc">그 금액의 1%</div></div>
   </div>
-  <p class="note">예) 4장 사용료 1억 450만 원을 제출하지 않으면 1억 450만 원 × 1% = 104만 5천 원, 3개월 안에 제출하면 × 0.5% = 52만 2,500원입니다. 산출세액이 없어도 부과되며, 의무위반 종류별로 5천만 원(중소기업이 아니면 1억 원) 한도가 있습니다(고의 위반은 한도 없음).<span class="ref nb"> §75의7⑥&nbsp;· 국세기본법 §49①</span></p>
+  <p class="note">예) 4장 사용료 1억 450만 원을 제출하지 않으면 1억 450만 원 × 1% = 104만 5천 원, 3개월 이내에 제출하면 × 0.5% = 52만 2,500원입니다. 산출세액이 없어도 부과되며, 의무위반 종류별로 5천만 원(중소기업이 아니면 1억 원) 한도가 있습니다(고의 위반은 한도 없음).<span class="ref nb"> §75의7⑥&nbsp;· 국세기본법 §49①</span></p>
   <ul class="checks">
     <li><span>신청서 없이 원천징수하지 않고 지급명세서까지 제출하지 않으면, 나중에 면제 대상으로 확인되어도 지급명세서 가산세를 부과한 해석·결정이 있습니다.<small>해석·결정(주식·특허권 양도, 축구 이적료, 옛 조문)&nbsp;· 조심2017중3535&nbsp;· <span class="nb">국제세원관리담당관실-63</span>(2013.3.4.)&nbsp;· <span class="nb">법규과-953</span>(2014.8.29.)</small></span></li>
   </ul>
@@ -264,7 +264,7 @@
   <h2><span class="no">5</span>흔한 실수</h2>
   <div class="fix">
     <div class="bad">조약상 면제라서 원천징수하지 않았으니 지급명세서도 제출하지 않음</div>
-    <div class="good">2026.1.1. 이후 발생분은 신청서를 제출한 소득만 제외되고, 없으면 원천징수하고 제출합니다. 강의료 등 다른 인적용역도 같습니다(호외 01)<small>§98의4③&nbsp;· 시행령 §162의2①6호&nbsp;· 조심2017중3535(주식 양도)</small></div>
+    <div class="good">2026.1.1. 이후 발생분은 신청서를 제출한 소득만 제외되고, 없으면 원천징수하고 제출합니다. 강의료 등 다른 인적용역소득도 같습니다(호외 01)<small>§98의4③&nbsp;· 시행령 §162의2①6호&nbsp;· 조심2017중3535(주식 양도)</small></div>
   </div>
   <div class="fix">
     <div class="bad">2025년까지처럼 원천징수되지 않는 인적용역소득은 제출하지 않음</div>

diff --git a/원본/05/카드.html b/원본/05/카드.html
@@ -214,7 +214,7 @@
 <section class="slide" id="s3">
   <div class="top"><span class="badge">외투법인 실무 카드 · 05 · 2026.11.03</span><span class="page">3 / 6</span></div>
   <h2><span class="no">2</span>원천징수세액과 송금액</h2>
-  <p class="lead">일본 본사가 경영 노하우 대가 <b>1,100만 엔</b>을 청구한 예입니다(카드 02의 사용료, 신청서를 받아 <span class="nb">한일 조약 10%·지방소득세 포함).</span></p>
+  <p class="lead">일본 본사가 경영 노하우 대가 <b>1,100만 엔</b>을 청구한 예입니다(카드 02의 사용료, 신청서를 받아 <span class="nb">한일 조약 10%(지방소득세 포함)).</span></p>
   <div class="rows calc4">
     <div class="head">가정 환율 100엔 = 950원 · 1,100만 엔 × 9.5원 = 1억 450만 원</div>
     <div class="r th" style="padding-top:4px;padding-bottom:4px"><div>경우</div><div>원천징수세액</div><div>본사 송금액</div><div>과세표준 <span class="nb">(원천세 신고)</span></div></div>
@@ -225,7 +225,7 @@
   <div class="ref" style="margin-top:10px"><span class="nb">기본통칙 98-0…2 ·</span> <span class="nb">법인세법 §98의7①2호 ·</span> <span class="nb">지방세법 §103의52① ·</span> <span class="nb">국고금 관리법 §47②</span></div>
   <div class="card soft bottom" style="padding:14px 30px">
     <div class="label">부가세 대리납부도 하면</div>
-    <p>자회사가 이 용역을 면세사업에 사용하거나 매입세액 불공제 대상이면 <b>부가세도 대리납부</b>합니다(카드 03). 이때 원천세와 부가세가 서로의 과세표준에 들어가는지는 다음 장에서 봅니다.</p>
+    <p>자회사가 이 용역을 면세사업에 사용하거나 매입세액 불공제 대상이면 <b>부가세도 대리납부</b>합니다(카드 03). 이때 원천징수세액과 부가세가 서로의 과세표준에 들어가는지는 다음 장에서 봅니다.</p>
   </div>
   <footer><span></span><span>›</span></footer>
 </section>
@@ -234,9 +234,9 @@
 <section class="slide" id="s4">
   <div class="top"><span class="badge">외투법인 실무 카드 · 05 · 2026.11.03</span><span class="page">4 / 6</span></div>
   <h2><span class="no">3</span>부가세 대리납부도 할 때</h2>
-  <p class="lead">원천세와 부가세가 <b>서로의 과세표준에 들어가는지</b>는 셋으로 나뉩니다.</p>
+  <p class="lead">원천징수세액과 부가세가 <b>서로의 과세표준에 들어가는지</b>는 셋으로 나뉩니다.</p>
   <div class="rows">
-    <div class="r"><div class="q"><b>원천세 → 부가세 과세표준</b><br>자회사가 부담한 원천징수세액은 용역 대가에 포함되어 대리납부 과세표준에 들어갑니다. 판결은 원천징수 대상분 세액만 과세표준에 넣었습니다.<small><span class="nb">부가22601-1135(1988.7.4.) ·</span> <span class="nb">2017누406(2002~2003년분, 상고 기각) ·</span> <span class="nb">2025누8147(상고 중)</span></small></div><div class="a calc">더합니다</div></div>
+    <div class="r"><div class="q"><b>원천징수세액 → 부가세 과세표준</b><br>자회사가 부담한 원천징수세액은 용역 대가에 포함되어 대리납부 과세표준에 들어갑니다. 판결은 원천징수 대상분 세액만 과세표준에 넣었습니다.<small><span class="nb">부가22601-1135(1988.7.4.) ·</span> <span class="nb">2017누406(2002~2003년분, 상고 기각) ·</span> <span class="nb">2025누8147(상고 중)</span></small></div><div class="a calc">더합니다</div></div>
     <div class="r"><div class="q"><b>부가세 → 원천징수 과세표준</b><br>대리납부한 부가세를 원천징수 과세표준에서 차감하지 않은 회신이 있습니다(<span class="nb">사용료를 수입금액 비율로 정하고</span> <span class="nb">부가세 약정이 없던</span> <span class="nb">면세사업자 사안).</span><small>법령해석과-2720</small></div><div class="a calc">차감하지 않습니다</div></div>
     <div class="r"><div class="q"><b>자회사가 부담한 부가세 → 원천징수 과세표준</b><br>자회사가 부담한 부가세(대리납부세액)를 원천징수 과세표준에 더하는지는 아직 해석이 없습니다.</div><div class="a"><span class="tag-split" style="margin-left:0">정리 전</span></div></div>
   </div>

diff --git a/원본/04/카드.html b/원본/04/카드.html
@@ -169,7 +169,7 @@
   <div class="top"><span class="badge">외투법인 실무 카드 · 04 · 2026.10.30</span><span class="page">1 / 5</span></div>
   <p class="prev">경영자문료 시리즈 ③ · 카드 03 <b>부가세 대리납부 여부</b>에 이어 법인세에서 비용으로 인정받는 요건을 봅니다</p>
   <h1>본사 경영자문료,<br><em>손금 인정 요건과 정상가격</em></h1>
-  <p class="sub">한국 자회사가 외국 본사(국외특수관계인)에 경영자문료·경영지원료를 지급하고 비용으로 처리하는 경우입니다. 국제조세조정법의 용역거래 규정으로 판단합니다.</p>
+  <p class="sub">한국 자회사가 외국 본사(국외특수관계인)에 경영자문료·경영지원료를 지급하고 비용으로 처리하는 경우입니다. 국조법의 용역거래 규정으로 판단합니다.</p>
   <div class="card navy answer">
     <div class="label">한 줄 결론</div>
     <p class="big">현행 시행령은 <b>사전 약정</b> · <b>편익</b> · <b>중복 아님</b> · <b class="nb">증빙 보관</b> 중 하나라도 갖추지 않으면 손금에 산입하지 않는다고 정합니다. 요건을 갖춰도 대가가 정상가격을 넘으면 정상가격을 기준으로 과세조정합니다.</p>
@@ -194,7 +194,7 @@
   <div class="card soft bottom" style="padding:22px 30px">
     <div class="label">대가 수준은 따로 봅니다</div>
     <p>자회사는 정상가격을 기준으로 조정해 신고할 수 있고(거래가격 조정신고서), 과세당국은 정상가격을 기준으로 결정·경정할 수 있습니다.<span class="ref nb"> 국조법 §6·§7①</span></p>
-    <p>이 용역 대가에는 법인세법 §52 부당행위계산부인을 적용하지 않습니다. 다만 자산 증여 등에는 적용합니다.<span class="ref nb"> 국조법 §4②</span></p>
+    <p>이 용역 대가에는 법인세법 §52 부당행위계산의 부인을 적용하지 않습니다. 다만 자산 증여 등에는 적용합니다.<span class="ref nb"> 국조법 §4②</span></p>
   </div>
   <footer><span>국조법 = 국제조세조정에 관한 법률</span><span>›</span></footer>
 </section>
@@ -258,7 +258,7 @@
   </div>
   <div class="fix last">
     <div class="bad">정상가격 초과분을 손금불산입만 하고 끝냄</div>
-    <div class="good">반환 확인 전까지 임시유보로 두고, 신고일(경정이면 임시유보 처분 통지서를 받은 날)부터 90일 안에 본사가 반환이자를 더해 돌려준 사실이 반환 확인서로 확인되지 않으면 배당으로 처분되어 원천징수합니다<small>국조법 §13① · 시행령 §22~§24</small></div>
+    <div class="good">반환 확인 전까지 임시유보로 두고, 신고일(경정이면 임시유보 처분 통지서를 받은 날)부터 90일 이내에 본사가 반환이자를 더해 돌려준 사실이 이전소득금액 반환 확인서로 확인되지 않으면 배당으로 처분되어 원천징수합니다<small>국조법 §13① · 시행령 §22~§24</small></div>
   </div>
   <div class="basis">
     <div class="label">근거</div>

diff --git a/index.html b/index.html
@@ -4,7 +4,7 @@
 <meta name="robots" content="noindex,nofollow">
 <title>외투법인 실무 카드</title>
 <meta property="og:type" content="website"><meta property="og:title" content="외투법인 실무 카드">
-<meta property="og:description" content="외투법인 실무에서 판단이 필요한 장면을 매주 화·금 한 장씩, 근거와 함께 정리합니다."><meta property="og:image" content="https://mkang4936.github.io/work-cards/c/04/1.png"><meta property="og:url" content="https://mkang4936.github.io/work-cards/">
+<meta property="og:description" content="외투법인 실무에서 판단이 필요한 장면을 매주 화·금 한 장씩, 근거와 함께 정리합니다."><meta property="og:image" content="https://mkang4936.github.io/work-cards/c/05/1.png"><meta property="og:url" content="https://mkang4936.github.io/work-cards/">
 <style>
 :root{--navy:#1f3a5f;--navy-soft:#e9eef5;--ink:#1d232b;--gray:#5b6573;--line:#dde2e8;--bg-soft:#f6f7f9;--ok:#2f7a5b}
 *{box-sizing:border-box;margin:0;padding:0}

diff --git a/build.py b/build.py
@@ -202,6 +202,16 @@ def slide_chars(src_html):
             for s in re.findall(r'<section class="slide".*?</section>', body, flags=re.S)]
 
 
+# 개념 정리 상자(설계.md, 사용자 2026-11-05): <!--개념정리-->…<!--/개념정리--> 안의 글자는 합계 상한에서 빼고 상자마다 따로 센다.
+CONCEPT_RE = r"<!--개념정리-->(.*?)<!--/개념정리-->"
+MAX_CONCEPT_CHARS = 200
+
+
+def concept_chars(src_html):
+    return [len(re.sub(r"\s", "", html.unescape(re.sub(r"<[^>]+>", "", m))))
+            for m in re.findall(CONCEPT_RE, src_html, flags=re.S)]
+
+
 def load_guard():
     spec = importlib.util.spec_from_file_location("korean_guard", KOREAN_GUARD)
     mod = importlib.util.module_from_spec(spec)
@@ -256,8 +266,13 @@ def check_card(c, src, guard):
     chars = slide_chars(raw)
     # 합계 상한은 사용자가 승인한 카드만 cards.json의 max_chars로 예외를 둔다. 장당 상한은 예외 없음.
     card_max = c.get("max_chars", MAX_CARD_CHARS)
-    if sum(chars) > card_max:
-        problems.append(f"{no}번 분량 {sum(chars)}자 — 상한 {card_max}자 초과")
+    concepts = concept_chars(raw)
+    body_total = sum(chars) - sum(concepts)
+    if body_total > card_max:
+        problems.append(f"{no}번 분량 {body_total}자(개념 정리 상자 제외) — 상한 {card_max}자 초과")
+    for i, n in enumerate(concepts, 1):
+        if n > MAX_CONCEPT_CHARS:
+            problems.append(f"{no}번 개념 정리 상자 {i} 분량 {n}자 — 상한 {MAX_CONCEPT_CHARS}자 초과")
     for i, n in enumerate(chars, 1):
         if n > MAX_SLIDE_CHARS:
             problems.append(f"{no}번 {i}장 분량 {n}자 — 장당 상한 {MAX_SLIDE_CHARS}자 초과")
